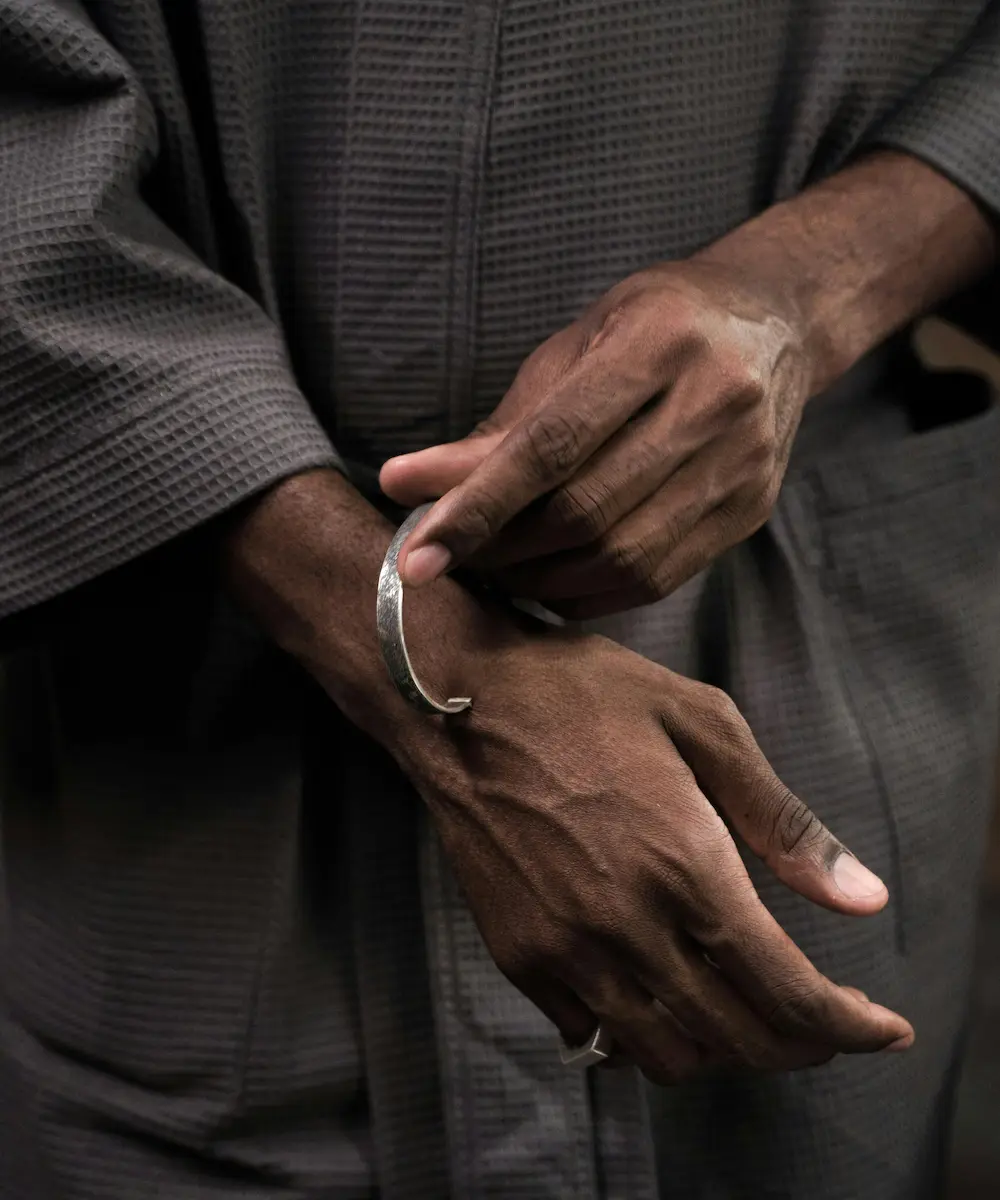
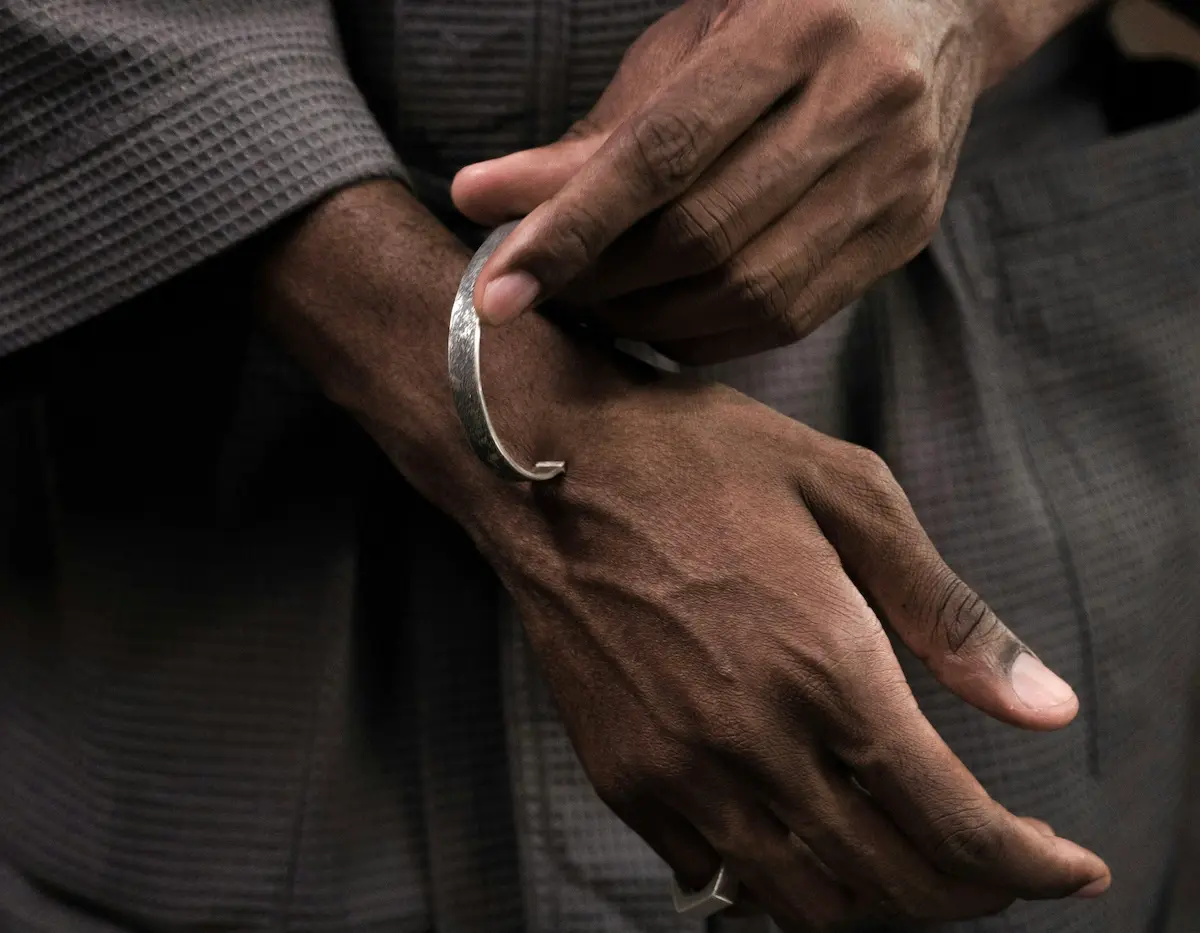
content changes index-page

diff --git a/index.html b/index.html
@@ -117,13 +117,36 @@
     <section class="hero-container">
       <img
         class="hero-1"
-        src="content/elias-rodriguez-aRvIh28Z510-unsplash copy.webp"
+        src="content/hero3.webp"
         alt="Woman sitting in water with earrings visible"
       />
 
       <div class="herotext">
-        <h2 class="headlines">NEW IN</h2>
-        <h1 class="sculpt">Sculpt</h1>
+        <svg
+          width="652"
+          height="454"
+          viewBox="0 0 802 604"
+          fill="none"
+          xmlns="http://www.w3.org/2000/svg"
+        >
+          <path
+            fill-rule="evenodd"
+            clip-rule="evenodd"
+            d="M450.241 457.534C353.153 473.104 279.169 583.891 187.603 559.158C92.4625 533.46 41.1381 434.737 45.8277 348.298C50.0931 269.677 140.849 217.222 209.211 160.868C259.706 119.243 316.1 90.3367 381.876 71.279C461.692 48.1536 558.607 -2.1199 620.293 41.7637C682.313 85.8857 607.155 177.722 626.742 245.479C650.825 328.79 804.895 396.832 744.063 469.919C683.283 542.943 551.821 441.244 450.241 457.534Z"
+            fill="#71BDAA"
+            fill-opacity="0.42"
+          />
+          <path
+            d="M244.447 288.676C244.751 285.66 245.567 283.142 246.896 281.123C248.224 279.103 249.87 277.498 251.834 276.308C253.799 275.091 255.985 274.233 258.392 273.735C260.799 273.237 263.234 272.988 265.697 272.988C267.717 272.988 269.695 273.071 271.632 273.237C273.569 273.403 275.353 273.597 276.986 273.818C278.618 274.039 280.029 274.261 281.219 274.482C282.409 274.703 283.281 274.869 283.834 274.98C284.166 275.063 284.332 275.215 284.332 275.437C284.332 275.492 284.304 275.658 284.249 275.935L283.626 278.923C283.571 279.117 283.488 279.241 283.377 279.296C283.294 279.324 283.211 279.338 283.128 279.338C281.911 279.338 280.86 279.545 279.974 279.96C279.089 280.375 278.355 280.957 277.774 281.704C277.193 282.451 276.751 283.336 276.446 284.36C276.142 285.384 275.934 286.49 275.824 287.68L273.333 317.854C273.112 320.288 272.49 322.585 271.466 324.743C270.442 326.901 269.017 328.783 267.191 330.388C265.365 331.993 263.124 333.265 260.467 334.206C257.811 335.147 254.767 335.617 251.336 335.617C249.04 335.617 246.826 335.507 244.696 335.285C242.565 335.064 240.628 334.801 238.885 334.497C237.142 334.192 235.634 333.902 234.361 333.625C233.116 333.321 232.217 333.099 231.664 332.961C231.332 332.878 231.166 332.726 231.166 332.504C231.166 332.477 231.193 332.325 231.249 332.048L231.954 328.894C232.009 328.7 232.079 328.589 232.162 328.562C232.272 328.506 232.369 328.479 232.452 328.479C233.67 328.479 234.79 328.299 235.814 327.939C236.865 327.579 237.778 326.984 238.553 326.154C239.328 325.324 239.964 324.245 240.462 322.917C240.988 321.589 241.348 319.956 241.542 318.02L244.447 288.676ZM316.351 304.033C316.351 307.436 316.489 310.383 316.766 312.873C317.043 315.336 317.403 317.438 317.845 319.182C318.316 320.897 318.855 322.294 319.464 323.374C320.1 324.425 320.751 325.255 321.415 325.864C322.079 326.445 322.743 326.846 323.407 327.067C324.099 327.261 324.749 327.358 325.357 327.358C326.049 327.358 326.672 327.275 327.225 327.109C327.779 326.915 328.277 326.708 328.719 326.486C329.162 326.237 329.522 326.03 329.798 325.864C330.103 325.67 330.338 325.573 330.504 325.573C330.725 325.573 330.919 325.698 331.085 325.947L332.87 328.769C332.953 328.935 332.994 329.073 332.994 329.184C332.994 329.322 332.939 329.447 332.828 329.558C332.718 329.641 332.621 329.724 332.538 329.807C331.68 330.471 330.587 331.149 329.259 331.84C327.931 332.532 326.409 333.155 324.693 333.708C323.006 334.261 321.138 334.718 319.09 335.078C317.043 335.437 314.885 335.617 312.616 335.617C310.541 335.617 308.41 335.41 306.224 334.995C304.066 334.607 301.963 333.943 299.916 333.002C297.868 332.034 295.931 330.761 294.105 329.184C292.307 327.607 290.729 325.656 289.374 323.332C288.018 320.98 286.939 318.227 286.136 315.073C285.362 311.891 284.974 308.211 284.974 304.033C284.974 299.855 285.362 296.188 286.136 293.034C286.939 289.852 288.018 287.099 289.374 284.775C290.729 282.423 292.307 280.458 294.105 278.881C295.931 277.304 297.868 276.045 299.916 275.104C301.963 274.136 304.066 273.458 306.224 273.071C308.41 272.656 310.541 272.448 312.616 272.448C314.885 272.448 317.043 272.628 319.09 272.988C321.138 273.347 323.006 273.804 324.693 274.357C326.409 274.911 327.931 275.533 329.259 276.225C330.587 276.917 331.68 277.595 332.538 278.259C332.621 278.342 332.718 278.439 332.828 278.549C332.939 278.632 332.994 278.743 332.994 278.881C332.994 278.992 332.953 279.13 332.87 279.296L331.085 282.119C330.919 282.368 330.725 282.492 330.504 282.492C330.338 282.492 330.103 282.409 329.798 282.243C329.522 282.049 329.162 281.842 328.719 281.621C328.277 281.372 327.779 281.164 327.225 280.998C326.672 280.804 326.049 280.708 325.357 280.708C324.749 280.708 324.099 280.818 323.407 281.04C322.743 281.233 322.079 281.634 321.415 282.243C320.751 282.824 320.1 283.654 319.464 284.733C318.855 285.785 318.316 287.182 317.845 288.925C317.403 290.641 317.043 292.744 316.766 295.234C316.489 297.696 316.351 300.629 316.351 304.033ZM383.192 312.541C383.192 315.695 382.888 318.462 382.279 320.842C381.67 323.194 380.826 325.227 379.747 326.943C378.668 328.658 377.395 330.069 375.929 331.176C374.462 332.283 372.858 333.168 371.114 333.833C369.399 334.497 367.573 334.953 365.636 335.202C363.727 335.479 361.79 335.617 359.825 335.617C357.944 335.617 356.062 335.493 354.181 335.244C352.327 335.022 350.556 334.607 348.868 333.999C347.208 333.39 345.659 332.546 344.22 331.467C342.781 330.388 341.536 328.99 340.484 327.275C339.433 325.559 338.603 323.498 337.994 321.091C337.413 318.684 337.123 315.834 337.123 312.541V280.209C337.123 279.241 337.206 278.397 337.372 277.678C337.538 276.958 337.856 276.363 338.326 275.893C338.797 275.395 339.447 275.021 340.277 274.772C341.107 274.523 342.186 274.399 343.514 274.399H362.025C363.63 274.399 364.847 274.634 365.677 275.104C366.535 275.575 367.13 276.17 367.462 276.889C367.822 277.581 368.015 278.328 368.043 279.13C368.071 279.905 368.085 280.625 368.085 281.289V323.913C368.085 324.328 368.195 324.632 368.417 324.826C368.666 324.992 368.901 325.075 369.122 325.075C370.118 325.075 370.99 324.812 371.737 324.287C372.484 323.733 373.107 322.986 373.605 322.045C374.103 321.105 374.476 319.998 374.725 318.725C375.002 317.452 375.14 316.083 375.14 314.616V276.35C375.14 275.879 375.237 275.437 375.431 275.021C375.652 274.606 376.123 274.399 376.842 274.399H381.158C381.407 274.399 381.656 274.413 381.905 274.44C382.154 274.468 382.376 274.551 382.569 274.689C382.763 274.8 382.915 274.994 383.026 275.271C383.137 275.52 383.192 275.879 383.192 276.35V312.541ZM389.894 280.209C389.894 279.241 389.977 278.397 390.143 277.678C390.309 276.958 390.627 276.363 391.097 275.893C391.568 275.395 392.218 275.021 393.048 274.772C393.878 274.523 394.957 274.399 396.285 274.399H414.796C416.401 274.399 417.618 274.634 418.448 275.104C419.306 275.575 419.901 276.17 420.233 276.889C420.593 277.581 420.786 278.328 420.814 279.13C420.842 279.905 420.856 280.625 420.856 281.289V328.312C422.765 328.036 424.536 327.787 426.168 327.565C426.86 327.482 427.552 327.399 428.243 327.316C428.963 327.206 429.613 327.109 430.194 327.026C430.803 326.943 431.342 326.888 431.813 326.86C432.283 326.805 432.629 326.777 432.85 326.777C433.321 326.777 433.694 326.874 433.971 327.067C434.275 327.233 434.427 327.593 434.427 328.146V331.965C434.427 332.463 434.206 332.933 433.763 333.376C433.348 333.791 432.67 333.999 431.73 333.999H396.202C394.902 333.999 393.837 333.874 393.007 333.625C392.204 333.376 391.568 333.016 391.097 332.546C390.627 332.076 390.309 331.481 390.143 330.761C389.977 330.042 389.894 329.198 389.894 328.229V280.209ZM438.182 280.209C438.182 279.241 438.265 278.397 438.431 277.678C438.597 276.958 438.916 276.363 439.386 275.893C439.856 275.395 440.507 275.021 441.337 274.772C442.167 274.523 443.246 274.399 444.574 274.399H463.085C464.994 274.399 466.889 274.523 468.771 274.772C470.652 274.994 472.451 275.381 474.166 275.935C475.909 276.488 477.514 277.207 478.981 278.093C480.475 278.978 481.761 280.085 482.841 281.413C483.947 282.714 484.805 284.249 485.414 286.02C486.05 287.763 486.368 289.783 486.368 292.08C486.368 295.483 485.898 298.361 484.957 300.712C484.044 303.037 482.799 304.96 481.222 306.481C479.645 308.003 477.805 309.165 475.702 309.968C473.627 310.77 471.441 311.351 469.144 311.711V327.275C469.144 327.911 469.089 328.617 468.978 329.392C468.868 330.166 468.591 330.9 468.148 331.591C467.705 332.255 467.028 332.823 466.114 333.293C465.201 333.763 463.942 333.999 462.338 333.999H444.574C443.246 333.999 442.167 333.874 441.337 333.625C440.507 333.376 439.856 333.016 439.386 332.546C438.916 332.076 438.597 331.481 438.431 330.761C438.265 330.042 438.182 329.198 438.182 328.229V280.209ZM480.516 292.702C480.516 291.042 480.295 289.52 479.852 288.137C479.41 286.726 478.732 285.494 477.819 284.443C476.906 283.391 475.73 282.52 474.291 281.828C472.852 281.136 471.136 280.666 469.144 280.417V306.191C471.136 305.887 472.852 305.333 474.291 304.531C475.73 303.728 476.906 302.732 477.819 301.542C478.732 300.353 479.41 299.011 479.852 297.517C480.295 295.995 480.516 294.39 480.516 292.702ZM500.997 280.458C499.199 280.846 497.539 281.192 496.017 281.496C495.353 281.634 494.689 281.759 494.025 281.87C493.388 281.98 492.78 282.091 492.199 282.202C491.617 282.285 491.092 282.354 490.621 282.409C490.179 282.465 489.847 282.492 489.625 282.492C489.155 282.492 488.754 282.409 488.422 282.243C488.117 282.049 487.965 281.676 487.965 281.123V276.474C487.965 275.948 488.187 275.478 488.629 275.063C489.072 274.62 489.764 274.399 490.704 274.399H542.211C543.152 274.399 543.843 274.62 544.286 275.063C544.729 275.478 544.95 275.948 544.95 276.474V281.123C544.95 281.676 544.784 282.049 544.452 282.243C544.148 282.409 543.76 282.492 543.29 282.492C543.041 282.492 542.695 282.465 542.252 282.409C541.81 282.354 541.298 282.285 540.717 282.202C540.136 282.091 539.513 281.98 538.849 281.87C538.213 281.759 537.562 281.634 536.898 281.496C535.376 281.192 533.716 280.846 531.918 280.458V328.312C531.918 329.253 531.835 330.083 531.669 330.803C531.503 331.494 531.185 332.089 530.714 332.587C530.271 333.058 529.649 333.417 528.846 333.667C528.044 333.888 527.02 333.999 525.775 333.999H507.264C505.964 333.999 504.899 333.874 504.069 333.625C503.266 333.376 502.63 333.016 502.159 332.546C501.717 332.076 501.412 331.481 501.246 330.761C501.08 330.042 500.997 329.198 500.997 328.229V280.458Z"
+            fill="#261E1E"
+          />
+          <path
+            d="M345.655 253C345.472 253 345.33 252.95 345.23 252.85C345.13 252.733 345.08 252.591 345.08 252.425V236.1C345.08 235.916 345.13 235.775 345.23 235.675C345.33 235.558 345.472 235.5 345.655 235.5H346.805C347.005 235.5 347.155 235.55 347.255 235.65C347.355 235.733 347.414 235.8 347.43 235.85L355.73 248.6V236.1C355.73 235.916 355.78 235.775 355.88 235.675C355.98 235.558 356.122 235.5 356.305 235.5H357.505C357.689 235.5 357.83 235.558 357.93 235.675C358.047 235.775 358.105 235.916 358.105 236.1V252.4C358.105 252.566 358.047 252.708 357.93 252.825C357.83 252.941 357.697 253 357.53 253H356.33C356.147 253 356.005 252.95 355.905 252.85C355.822 252.75 355.764 252.683 355.73 252.65L347.455 240.025V252.425C347.455 252.591 347.397 252.733 347.28 252.85C347.18 252.95 347.039 253 346.855 253H345.655ZM362.739 253C362.555 253 362.414 252.95 362.314 252.85C362.214 252.733 362.164 252.591 362.164 252.425V236.1C362.164 235.916 362.214 235.775 362.314 235.675C362.414 235.558 362.555 235.5 362.739 235.5H373.064C373.247 235.5 373.389 235.558 373.489 235.675C373.589 235.775 373.639 235.916 373.639 236.1V237.05C373.639 237.233 373.589 237.375 373.489 237.475C373.389 237.575 373.247 237.625 373.064 237.625H364.564V243.1H372.514C372.697 243.1 372.839 243.158 372.939 243.275C373.039 243.375 373.089 243.516 373.089 243.7V244.625C373.089 244.791 373.039 244.933 372.939 245.05C372.839 245.15 372.697 245.2 372.514 245.2H364.564V250.875H373.264C373.447 250.875 373.589 250.925 373.689 251.025C373.789 251.125 373.839 251.266 373.839 251.45V252.425C373.839 252.591 373.789 252.733 373.689 252.85C373.589 252.95 373.447 253 373.264 253H362.739ZM380 253C379.783 253 379.608 252.941 379.475 252.825C379.358 252.708 379.275 252.541 379.225 252.325L376 236.275C375.983 236.208 375.975 236.15 375.975 236.1C375.975 236.05 375.975 236.016 375.975 236C375.975 235.866 376.025 235.75 376.125 235.65C376.225 235.55 376.341 235.5 376.475 235.5H377.775C378.125 235.5 378.325 235.641 378.375 235.925L380.925 248.825L383.625 239.975C383.675 239.825 383.758 239.691 383.875 239.575C384.008 239.441 384.191 239.375 384.425 239.375H385.35C385.6 239.375 385.783 239.441 385.9 239.575C386.016 239.691 386.091 239.825 386.125 239.975L388.85 248.825L391.375 235.925C391.425 235.641 391.633 235.5 392 235.5H393.3C393.433 235.5 393.55 235.55 393.65 235.65C393.75 235.75 393.8 235.866 393.8 236C393.8 236.016 393.791 236.05 393.775 236.1C393.775 236.15 393.775 236.208 393.775 236.275L390.55 252.325C390.5 252.541 390.408 252.708 390.275 252.825C390.158 252.941 389.991 253 389.775 253H388.8C388.566 253 388.383 252.941 388.25 252.825C388.116 252.708 388.025 252.558 387.975 252.375L384.875 242.85L381.8 252.375C381.733 252.558 381.633 252.708 381.5 252.825C381.383 252.941 381.208 253 380.975 253H380ZM402.832 253C402.648 253 402.507 252.95 402.407 252.85C402.307 252.733 402.257 252.591 402.257 252.425V236.075C402.257 235.908 402.307 235.775 402.407 235.675C402.507 235.558 402.648 235.5 402.832 235.5H404.157C404.323 235.5 404.457 235.558 404.557 235.675C404.673 235.775 404.732 235.908 404.732 236.075V252.425C404.732 252.591 404.673 252.733 404.557 252.85C404.457 252.95 404.323 253 404.157 253H402.832ZM409.393 253C409.209 253 409.068 252.95 408.968 252.85C408.868 252.733 408.818 252.591 408.818 252.425V236.1C408.818 235.916 408.868 235.775 408.968 235.675C409.068 235.558 409.209 235.5 409.393 235.5H410.543C410.743 235.5 410.893 235.55 410.993 235.65C411.093 235.733 411.151 235.8 411.168 235.85L419.468 248.6V236.1C419.468 235.916 419.518 235.775 419.618 235.675C419.718 235.558 419.859 235.5 420.043 235.5H421.243C421.426 235.5 421.568 235.558 421.668 235.675C421.784 235.775 421.843 235.916 421.843 236.1V252.4C421.843 252.566 421.784 252.708 421.668 252.825C421.568 252.941 421.434 253 421.268 253H420.068C419.884 253 419.743 252.95 419.643 252.85C419.559 252.75 419.501 252.683 419.468 252.65L411.193 240.025V252.425C411.193 252.591 411.134 252.733 411.018 252.85C410.918 252.95 410.776 253 410.593 253H409.393Z"
+            fill="#261E1E"
+          />
+        </svg>
+      </div>
+      
       </div>
 
       <a class="cta1 cta" href="sculpt.html">Explore Collection</a>
@@ -175,22 +198,20 @@
 
     <section class="grid-categories">
       <div class="category">
-        <img
-          src="content/Firefly_Et produktbillede af en enkelt creol ørering i rhodineret sølv, der er formet med org 936548.webp"
-          alt="dummy-image"
-        /><a class="cta cta2" href="">Bracelets</a>
+        <img src="content/pexels-ron-lach-9145353.webp" alt="dummy-image" /><a
+          class="cta cta2"
+          href=""
+          >Bracelets</a
+        >
       </div>
       <div class="category">
-        <img
-          src="content/Firefly_A chain necklace in polished silver that lies on concrete, not chunky 128521.webp"
-          alt="dummy-image"
-        />
+        <img src="content/necklace.webp" alt="dummy-image" />
         <a class="cta cta2" href="">Necklaces</a>
       </div>
 
       <div class="category">
         <img
-          src="content/Firefly_Et produktbillede af en enkelt creol ørering i rhodineret sølv, der er formet med org 936548.webp"
+          src="content/Firefly_et produktbillede af en sølvring, der er formet i organiske former men har lidt mere  51981.webp"
           alt="dummy-image"
         />
         <a class="cta cta2" href="">Rings</a>
@@ -198,7 +219,7 @@
 
       <div class="category">
         <img
-          src="content/Firefly_Et produktbillede af en enkelt creol ørering i rhodineret sølv, der er formet med org 936548.webp"
+          src="content/Firefly_en kvinde med en meget minimalistisk sølv ørering i det ene øre  668662 2 (1).webp"
           alt="dummy-image"
         />
         <a class="cta cta2" href="">Earrings</a>

diff --git a/general.css b/general.css
@@ -29,9 +29,9 @@ body {
   font-family: Fascinate;
   font-size: 2.5rem;
   font-style: normal;
-  font-weight: 900;
+  font-weight: 700;
   line-height: 150%; /* 144px */
-  letter-spacing: -1.15px;
+  letter-spacing: -1px;
 }
 
 .sculpt2 {
@@ -200,7 +200,7 @@ hero starter her */
   left: 50%;
   transform: translate(-50%, -50%);
   z-index: 2;
-  border: 1px solid var(--Brown, #261e1e);
+  border: 1px solid #d9d9d93e;
 }
 
 .cta2 a {
@@ -216,8 +216,13 @@ hero starter her */
     height: 70px;
   }
 
-  .cta2 a {
-    font-size: 1.2rem;
+  .cta2 {
+    font-size: 1.4;
+  }
+  .hero-1 {
+    width: 100%;
+    height: 660px;
+    object-fit: cover;
   }
 }
 
@@ -245,7 +250,7 @@ hero starter her */
 
 .herotext {
   position: absolute;
-  top: 50%;
+  top: 43%;
   left: 50%;
   transform: translate(-50%, -50%);
   text-align: center;
@@ -255,15 +260,15 @@ hero starter her */
 .cta {
   display: flex;
   border-radius: 8px;
-  background: rgba(113, 189, 170, 0.17);
+  background: rgba(113, 189, 170, 0.42);
   backdrop-filter: blur(15.5px);
   text-align: center;
   font-family: Rubik;
   font-size: 1rem;
   font-style: normal;
-  font-weight: 450;
+  font-weight: 470;
   line-height: 150%; /* 60px */
-  letter-spacing: -0.92px;
+  letter-spacing: -0.6px;
   color: #261e1e;
   transition: background-color 200ms linear;
 }
@@ -278,7 +283,7 @@ hero starter her */
   flex-direction: column;
   justify-content: center;
   gap: 10px;
-  border: 1px solid var(--Brown, #261e1e);
+  border: 1px solid #d9d9d93e;
 
   position: absolute;
   top: 85%;

diff --git a/sculpt.html b/sculpt.html
@@ -116,7 +116,7 @@
     </header>
 
     <section class="grid1-1-1">
-      <h1 class="sculpt2">Sculpt</h1>
+      <h1 class="sculpt2">SCULPT</h1>
 
       <p class="collection-text2">
         Bold in form. Grounded in simplicity. <br />

diff --git a/layout.css b/layout.css
@@ -96,6 +96,11 @@
   .big-product-text {
     grid-column: span 2 / -3;
   }
+
+  .herotext svg {
+    width: 350px;
+    height: 650px;
+  }
 }
 
 @media (width>750px) {
